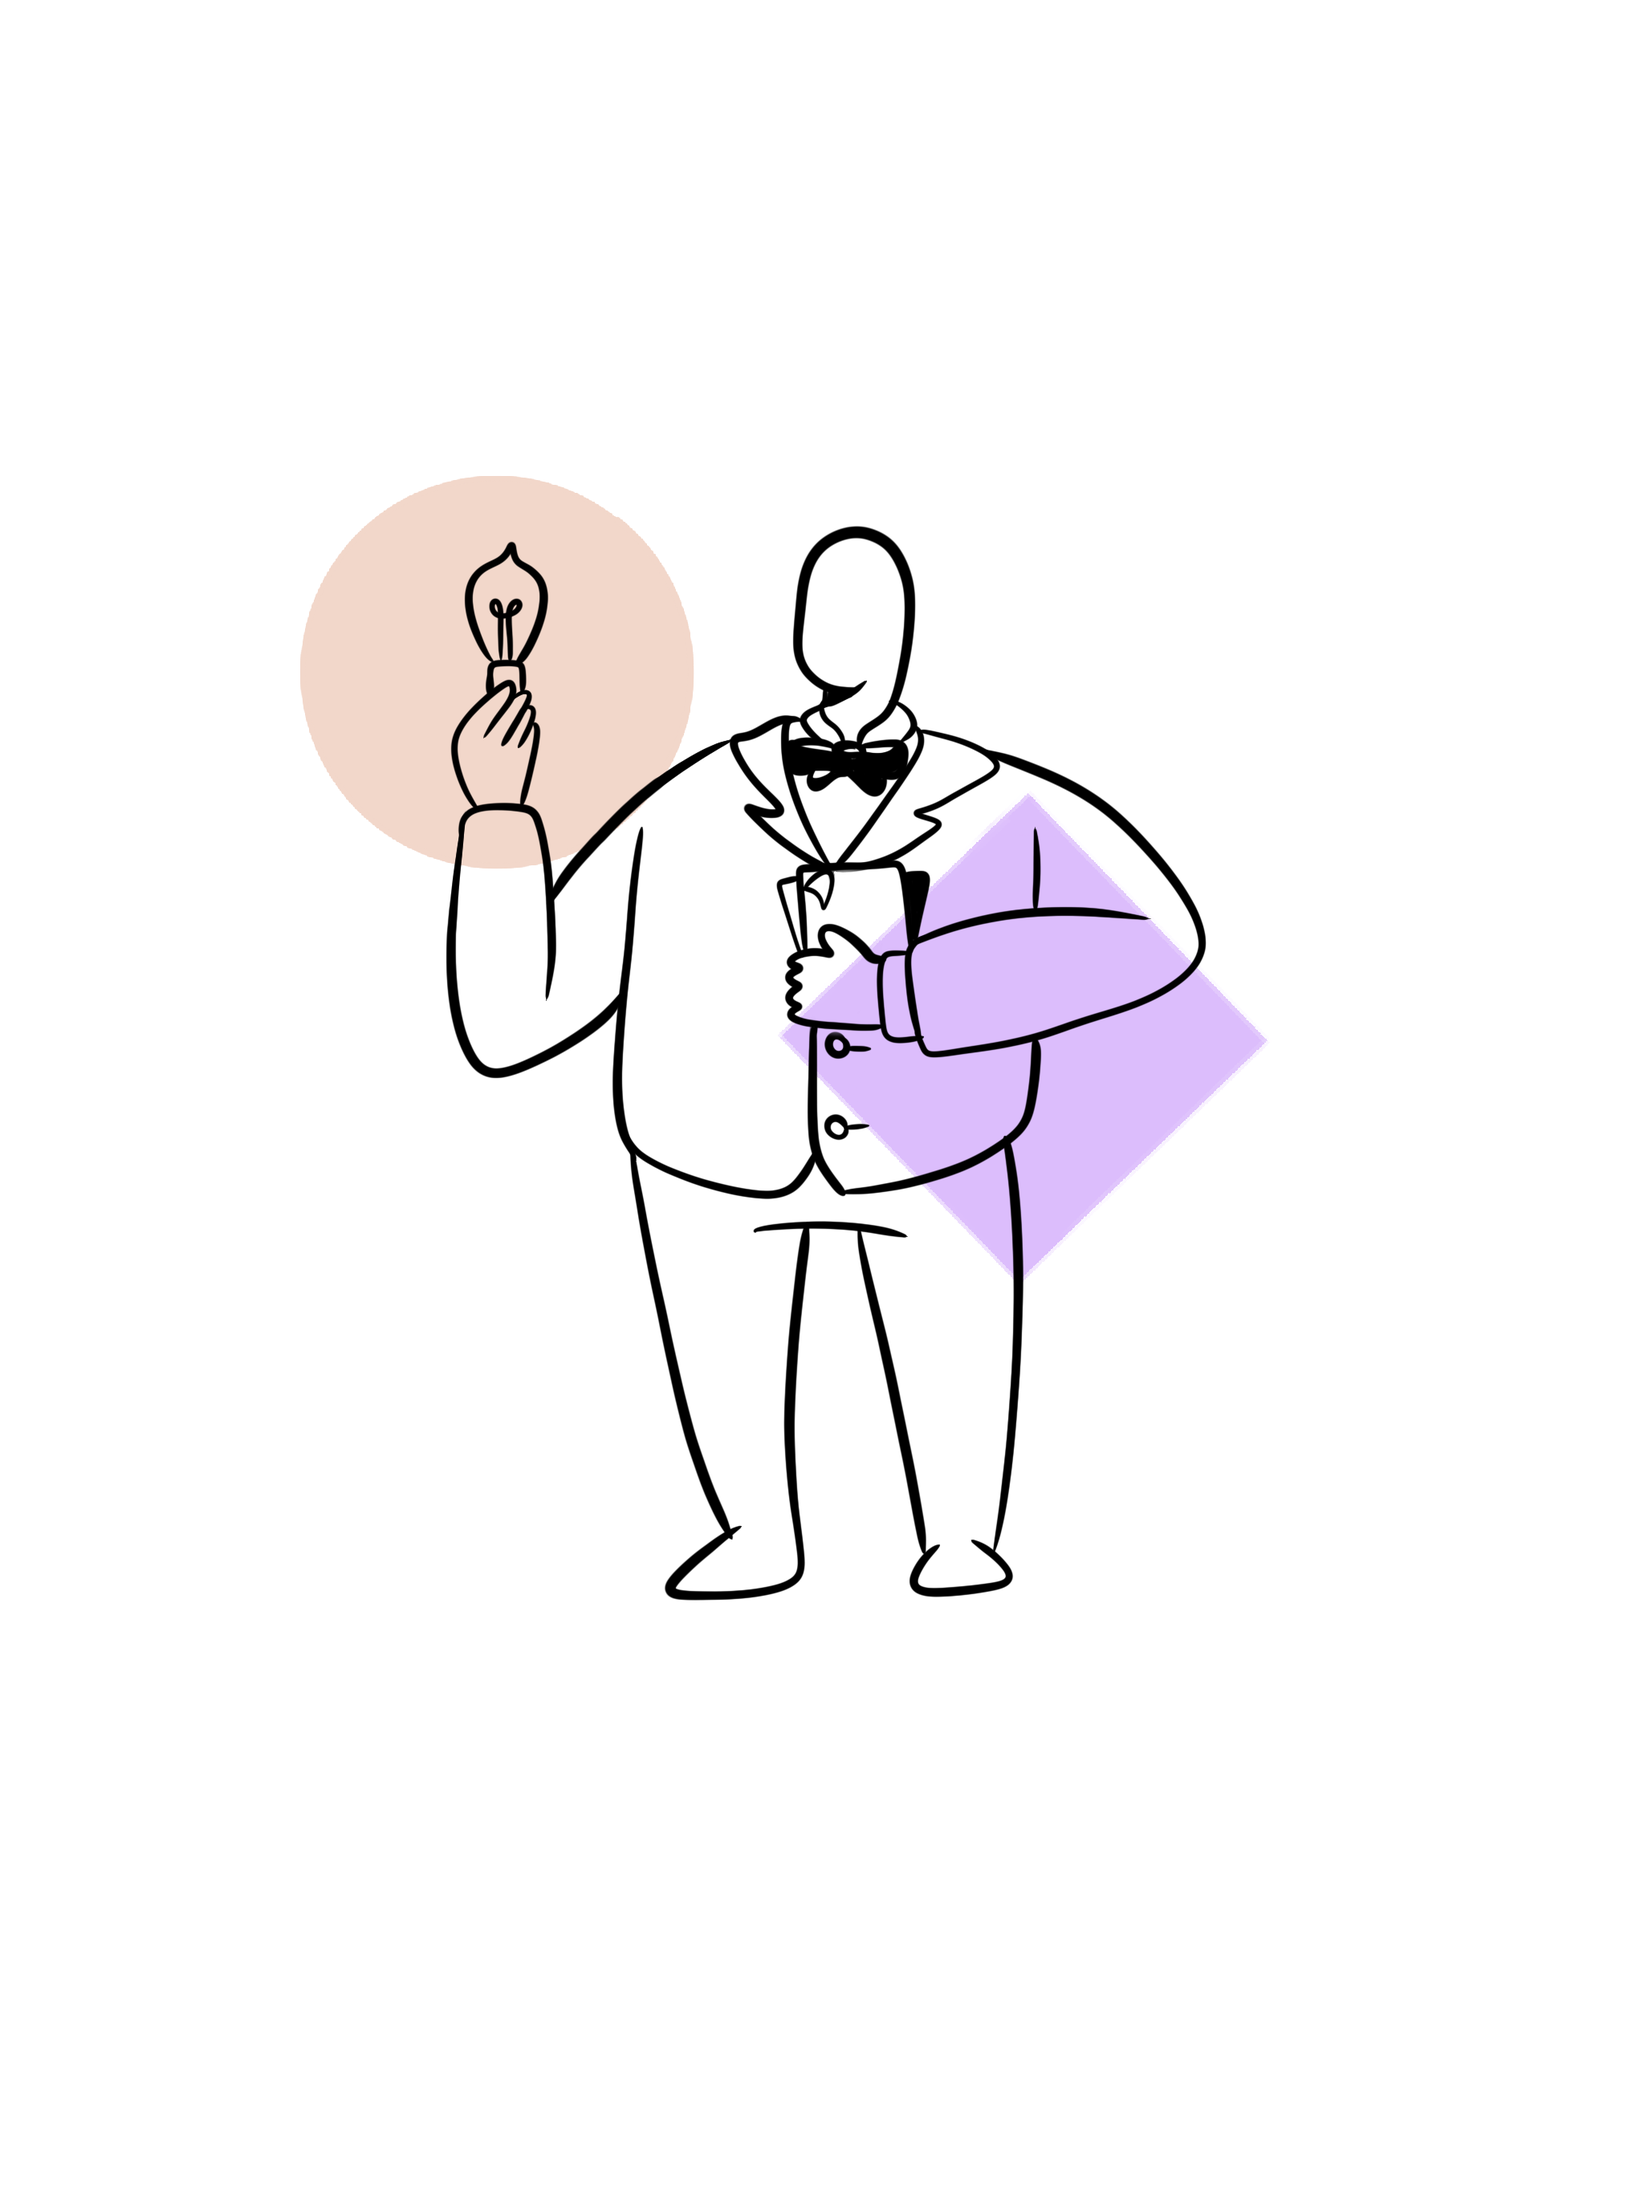
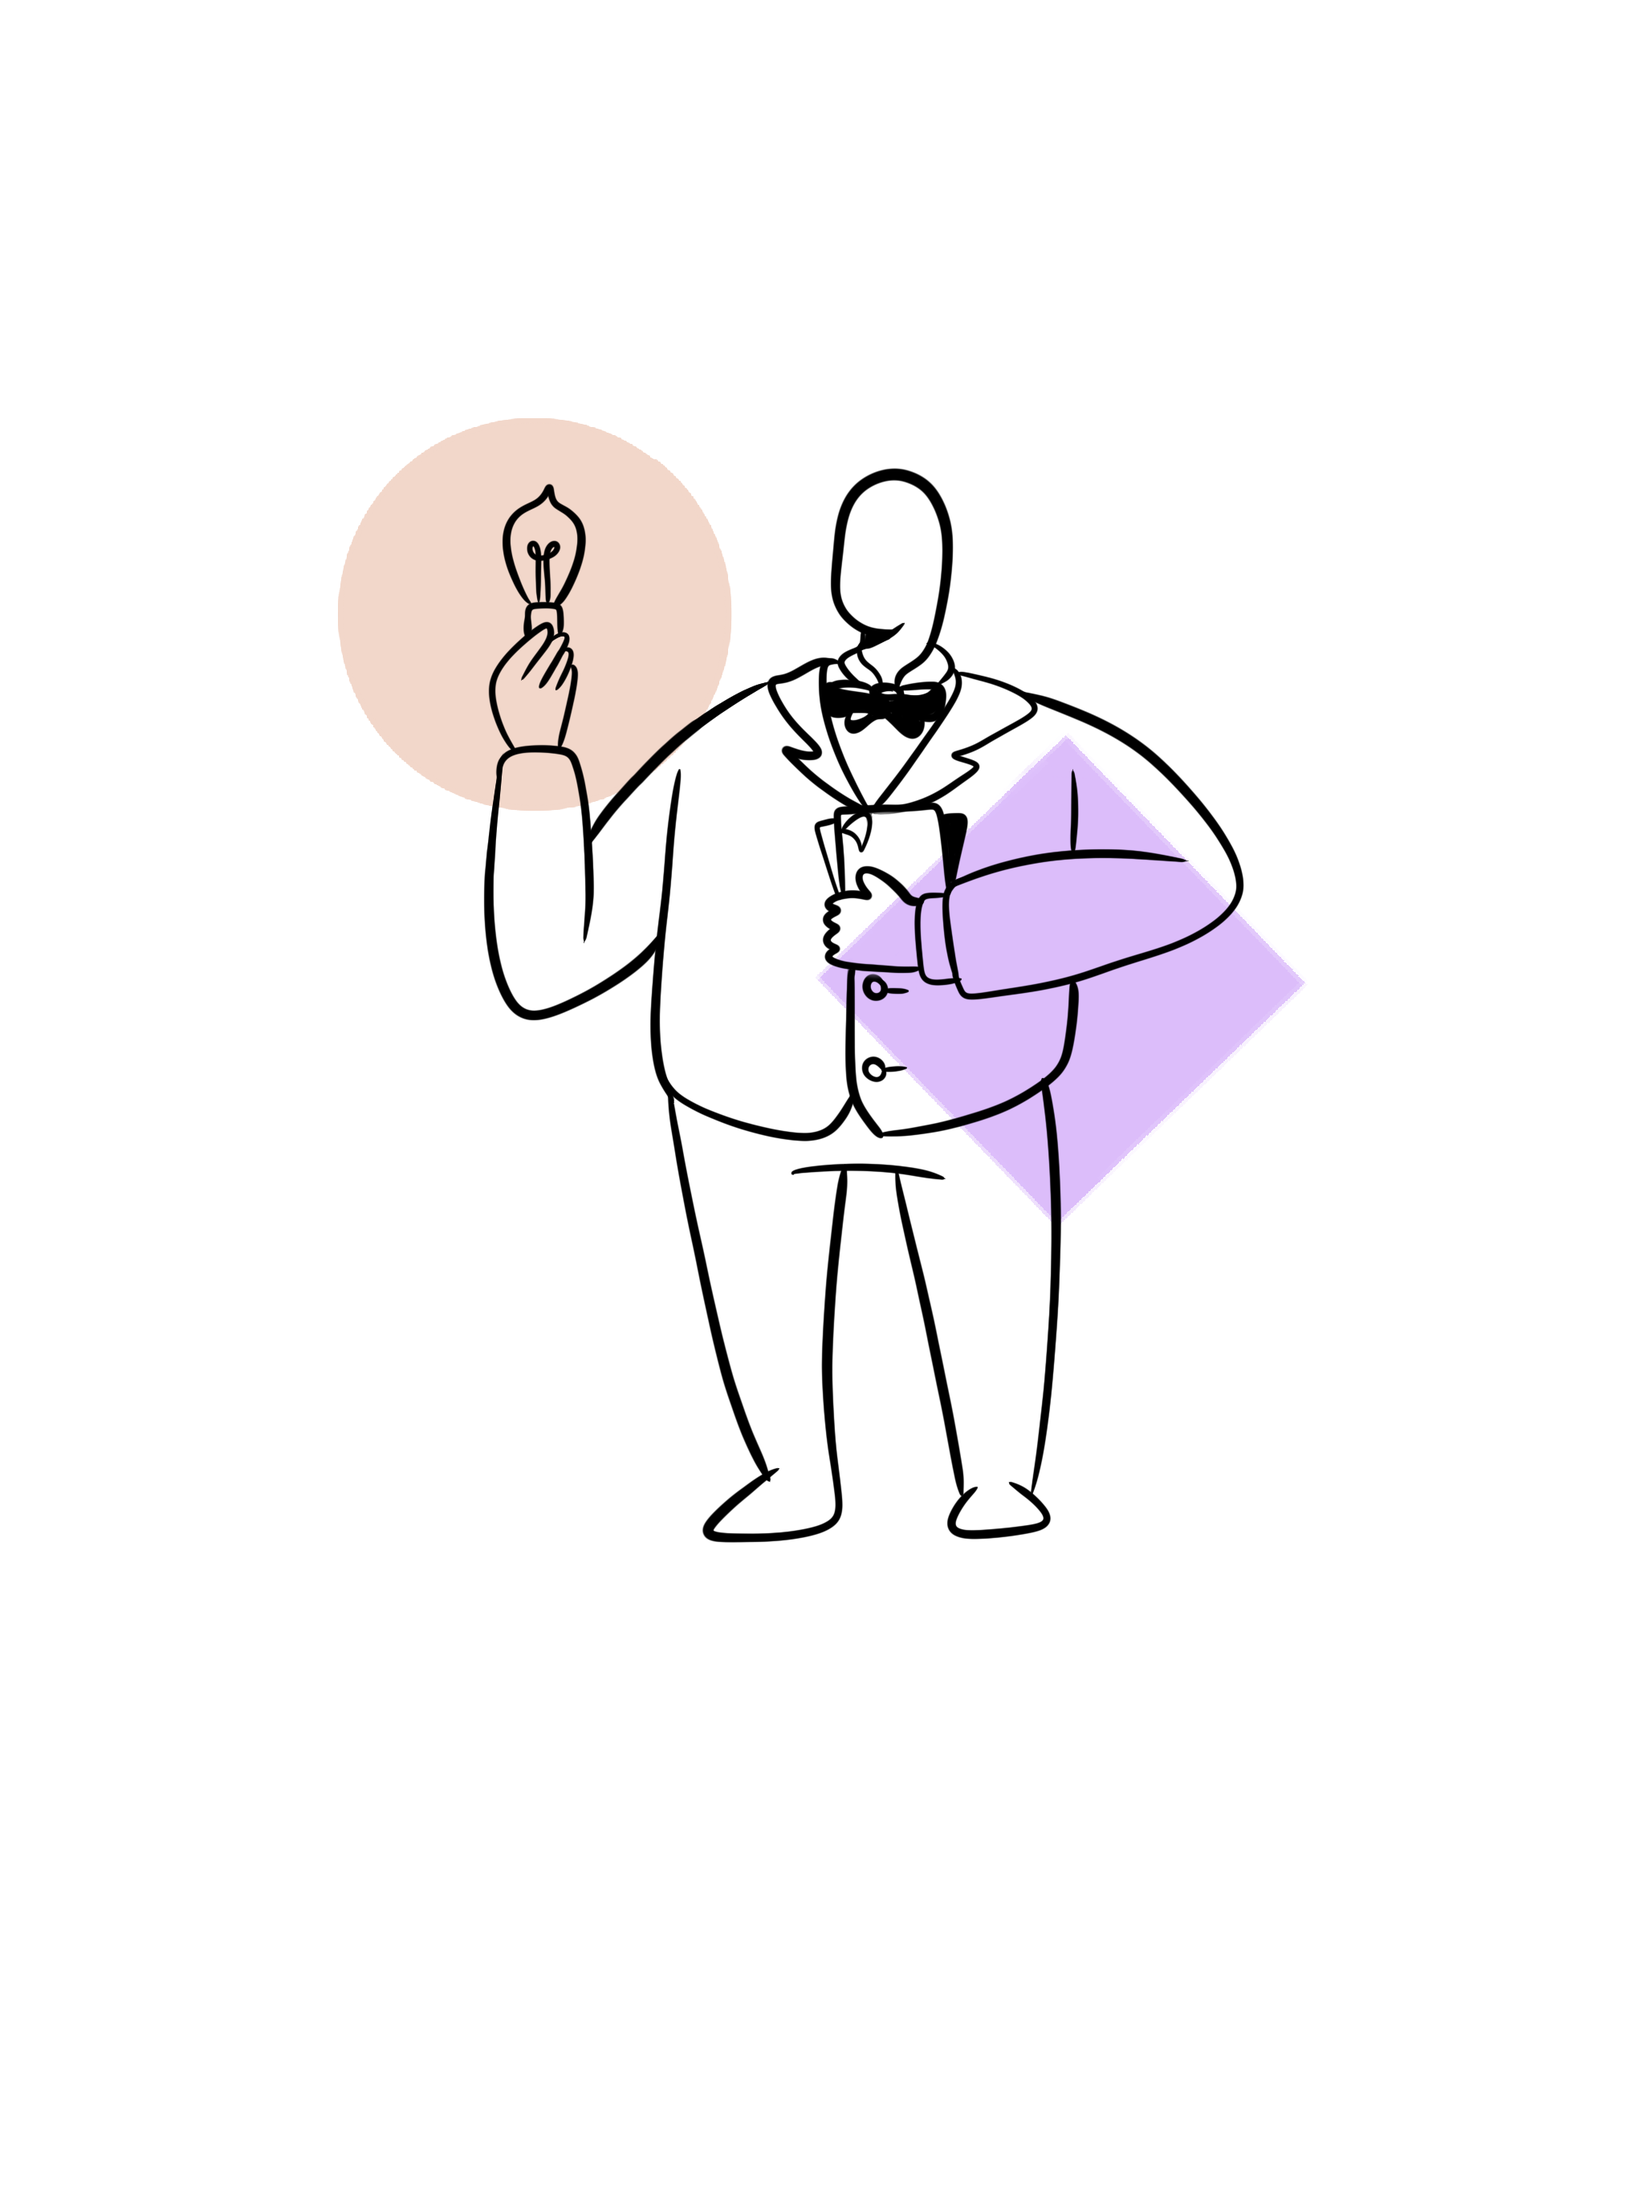
billeder

Changed region(s): [[0.1562, 0.1867, 0.8125, 0.7467]]

diff --git a/index.html b/index.html
@@ -23,7 +23,7 @@
   <h1>Welcome, Jesper</h1>
   <div class="designer">Designer</div>
 </div>
-<img id="manpic" src="billeder/man.tiff" alt="">
+<img id="manpic" src="billeder/man.png" alt="">
 <h1>Your subscriptions:</h1>
 <div class="subs">
   <img src="billeder/adobe.png" alt="">

diff --git a/stylesheet.css b/stylesheet.css
@@ -63,7 +63,7 @@ align-items: center;
   flex-direction: row;
 }
 #manpic {
-  max-width: 40%;
+  max-width: 70%;
 }
 
 
